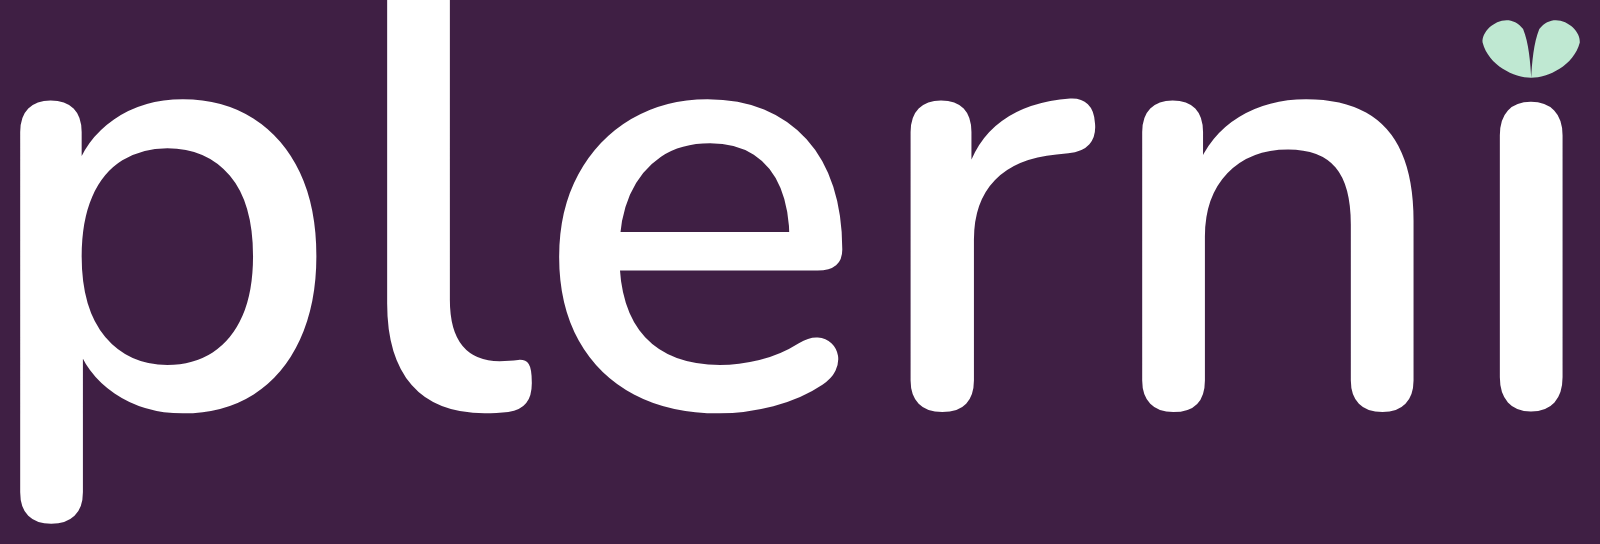
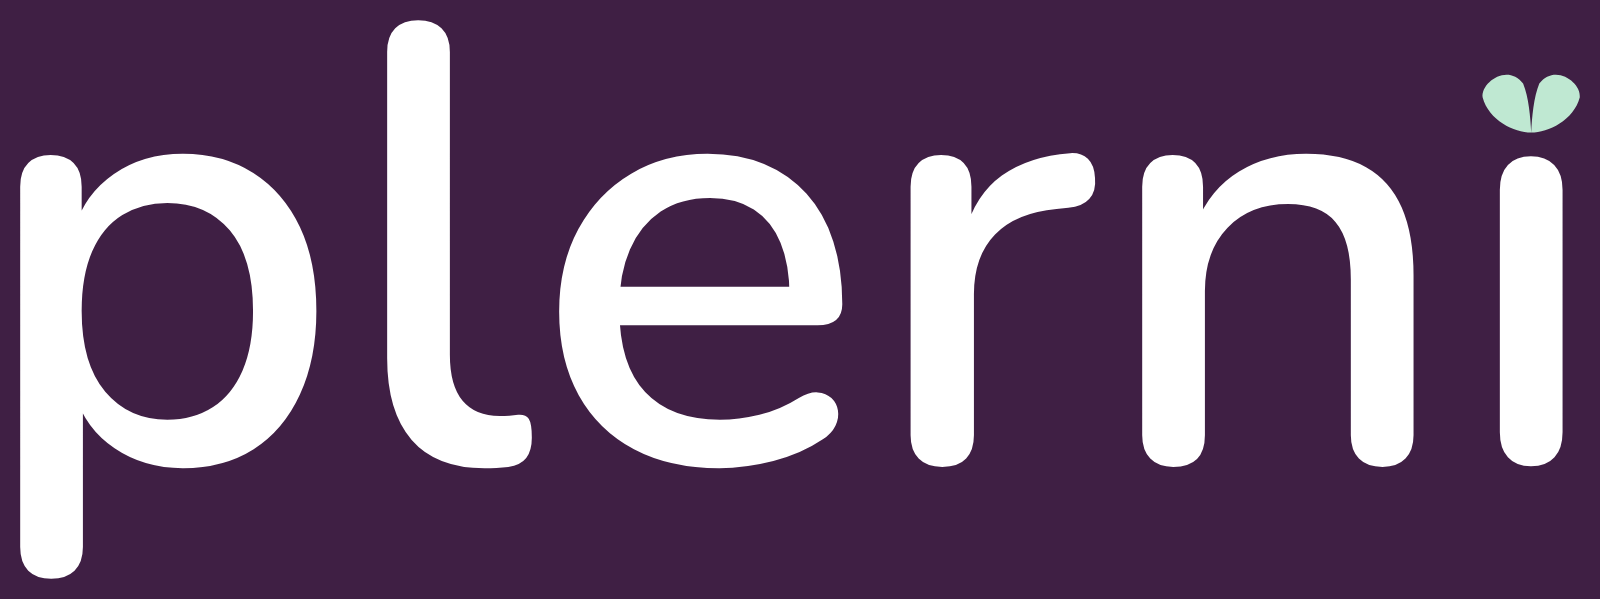
fix(brand): unclip the wordmark and narrow the commit gate
The wordmark viewBox now includes every glyph, so the l is not cropped.
commit-policy flags configured identities instead of every URL. The license
gate audits installed peers, and CI fails when a generated SVG, PNG, or ICO
is missing from the index. Rebuild with npm ci --ignore-scripts.

AI-assisted: yes

diff --git a/assets/brand/README.md b/assets/brand/README.md
@@ -80,8 +80,8 @@ Paths below are filenames from this directory, copied to wherever the site serve
 From this directory, with Node 22 or newer:
 
 ```
-npm ci
+npm ci --ignore-scripts
 npm run export
 ```
 
-`export.mjs` rewrites the SVGs and the PNG/ICO files. Dependencies are pinned and were checked against the npm registry on 2026-10-15: `opentype.js` 2.0.0 (MIT) and `@napi-rs/canvas` 1.0.11 (MIT). They are tools for this directory only, not appliance dependencies. The repository license-audit gate reads every installed manifest in that dependency graph, including transitive dependencies and the platform package npm actually installed. CI installs them with `npm ci --ignore-scripts`, runs `npm run export`, and fails if a committed SVG, PNG, or ICO file changes. A missing lockfile, or a locked version that does not satisfy the manifest range, fails the gate. The lockfile's own license field is not the source of the decision. The export refuses any Nunito face other than SemiBold weight 600, checks that every mark still contains the shared `p` path and the shared sprout path, and checks that the sprout's raster centre stays within 2px of the **p** stem (icon) or the **i** stem (wordmark) on a 180px-wide sample. Fully transparent pixels are left out of that sample.
+`export.mjs` rewrites the SVGs and the PNG/ICO files. Dependencies are pinned and were checked against the npm registry on 2026-10-15: `opentype.js` 2.0.0 (MIT) and `@napi-rs/canvas` 1.0.11 (MIT). They are tools for this directory only, not appliance dependencies. The repository license-audit gate reads every installed manifest in that dependency graph, including transitive dependencies, peer dependencies, and the platform package npm actually installed. An optional peer that this install did not select is skipped. CI installs them with `npm ci --ignore-scripts`, runs `npm run export`, and fails if `git status --porcelain` reports any change under the SVG, PNG, or ICO paths. A missing lockfile, or a locked version that does not satisfy the manifest range, fails the gate. The lockfile's own license field is not the source of the decision. The export refuses any Nunito face other than SemiBold weight 600, checks that every mark still contains the shared `p` path and the shared sprout path, and checks that the sprout's raster centre stays within 2px of the **p** stem (icon) or the **i** stem (wordmark) on a 180px-wide sample. Fully transparent pixels are left out of that sample.
